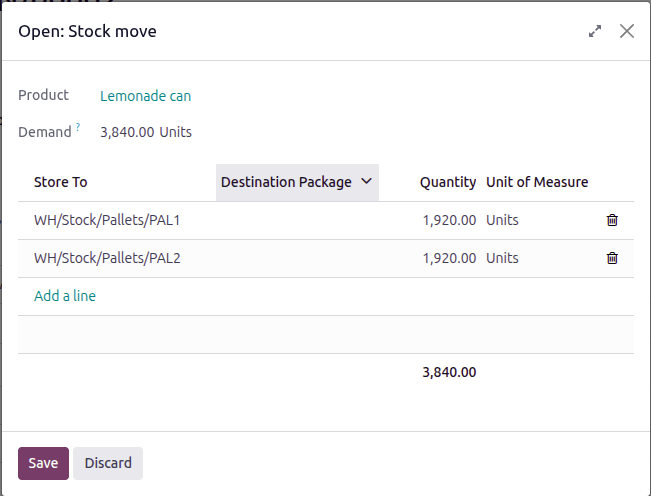
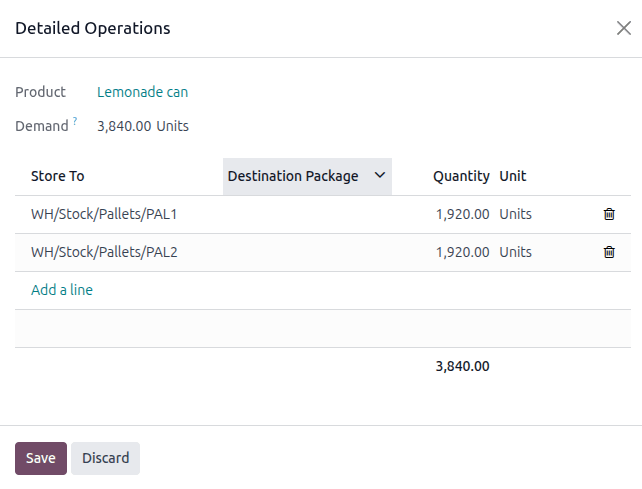
[IMP] Inventory: Storage categories fix
closes odoo/documentation#16034

X-original-commit: 816dae266d049b43eb9f8225ac6c0cb6751bd40e

diff --git a/content/applications/inventory_and_mrp/inventory/shipping_receiving/daily_operations/storage_category.rst b/content/applications/inventory_and_mrp/inventory/shipping_receiving/daily_operations/storage_category.rst
@@ -89,6 +89,8 @@ On a storage category form (:menuselection:`Inventory app --> Configuration --> 
 Categories`), set a maximum product weight in the :guilabel:`Max Weight` field. This limit applies
 to each location assigned this storage category.
 
+This value must be set to greater than `0` if a product weight is defined.
+
 Capacity by product
 -------------------
 
@@ -173,16 +175,18 @@ category:
 - :guilabel:`Closest Location`: The locations specified as part of the storage category are used. A
   storage category is mandatory in the :guilabel:`Having Category` field.
 
-If using multiple storage locations for a single storage category, create putaway rules for each
-location to ensure that if one storage location is in use, the secondary locations must be used.
-
 .. example::
    Continuing the example from above, the `High frequency pallets` storage category is assigned to
    the putaway rule directing pallets of lemonade to locations with the `High frequency pallets`
    storage category :ref:`assigned to them <inventory/routes/assign-location>`.
 
    .. image:: storage_category/smart-putaways.png
-      :alt: Storage Categories used in a variety of putaway rules.
+      :alt: Storage Categories used in putaway rules.
+
+.. note::
+   If products are not routing to secondary locations for a storage category and a product weight is
+   defined, verify that the storage category's :guilabel:`Max Weight` value is set to a number
+   greater than `0`.
 
 Use case: limit capacity by package
 ===================================
@@ -204,9 +208,9 @@ lemonade cans is received, the following scenarios happen:
 - If `PAL1` and `PAL2` are full, the pallet is redirected to `WH/Stock/Pallets`.
 - If `PAL1` is partially full (for example, with one pallet), Odoo treats more than one received
   pallet as a single pallet on the receipt. You must manually separate the two pallets into separate
-  storage locations. Click the :guilabel:`Open Move` icon to the right of the :guilabel:`Units`
-  field, and then in the :guilabel:`Open: Stock move` box, click :guilabel:`Add a line`. Finally,
-  split the receipt by quantity into separate locations, then click :guilabel:`Save`.
+  storage locations. Click the :guilabel:`Details` link to the right of the :guilabel:`Units` field,
+  and then in the :guilabel:`Detailed Operations` box, click :guilabel:`Add a line`. Finally, split
+  the receipt by quantity into separate locations, then click :guilabel:`Save`.
 
      .. image:: storage_category/package-stock-move.png
-        :alt: Update the Stock move box to route pallets to the correct locations before validating.
+        :alt: Update the Detailed Operations box to route pallets to the correct locations.
